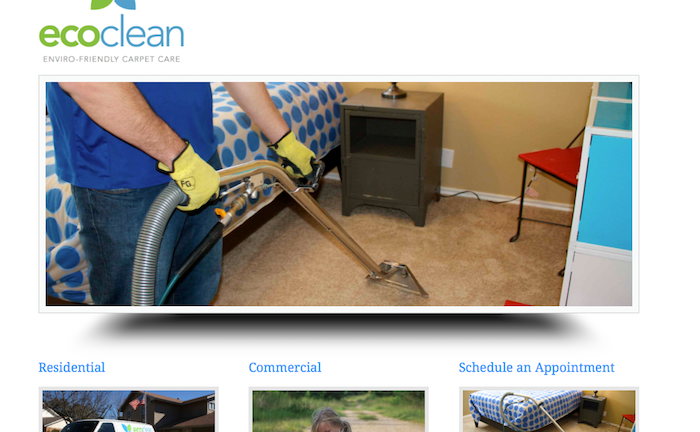
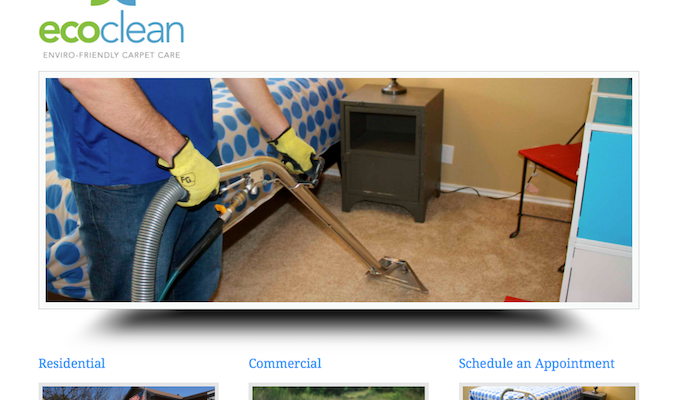
Continued to update project portfolio

diff --git a/public_html/css/style.css b/public_html/css/style.css
@@ -21,12 +21,6 @@ h1, h2, h3, h4, h5, h6 {
 	margin: 0 auto;
 }
 
-/*.row-eq-height {*/
-	/*display: -webkit-box;*/
-	/*display: -webkit-flex;*/
-	/*display: -ms-flexbox;*/
-	/*display: flex;*/
-/*}*/
 
 /* HEADER */
 .headerRow {
@@ -67,9 +61,7 @@ h1, h2, h3, h4, h5, h6 {
 }
 
 .project {
-	border: 5px solid black;
-	padding: 10px;
-	margin: 10px;
+
 }
 
 /* PRICING */

diff --git a/public_html/index.php b/public_html/index.php
@@ -59,6 +59,7 @@
 	<body>
 
 		<div class="container-fluid"><!--Header container-->
+
 			<div class="row headerRow row-eq-height"><!--Header-->
 				<div class="col-md-4">
 					<img src="images/dm-logo.png" alt="David Mancini's Logo" class="img-responsive">
@@ -72,7 +73,6 @@
 				</div>
 			</div><!--Ends Header-->
 		</div><!--Ends header container-->
-
 
 		<div class="container contentContainer"><!--Content container-->
 
@@ -94,41 +94,35 @@
 				<p>I create fully responsive, mobile-friendly websites using the latest and most up-to-date technology,<br> including HTML5, CSS3, AngularJS, Bootstrap, MySQL, PHP7, and Wordpress.</p>
 				</div><!--Ends Skills Row-->
 
-
-
-			<h2>Project Portfolio</h2><br><p>More projects available upon request.</p>
-
-			<div class="row projectsRow row-eq-height text-center"><!--Projects Row-->
-
-
-				<div class="col-md-4 project">
-					<a href="//satraining.net" target="_blank"><img src="images/project-stayin-alive.png" alt="Stayin' Alive Training Services Website" class="img-responsive img-rounded"></a><br>
-					<h3>Stayin' Alive Training Services</h3>
-					<p>Stayin' Alive's website utilizes a custom Wordpress theme.  It showcases their available courses and allows visitors to schedule and pay for classes online.  It also displays a blog and manages every aspect of daily business.
-					<br><a href="//satraining.net" target="_blank">satraining.net</a></p>
+			<div class="row projectsRow text-center"><!--Projects Row-->
+				<h2>Project Portfolio</h2><br><p>More projects available upon request.</p>
+				<div class="col-md-4">
+					<div class="project">
+						<a href="//satraining.net" target="_blank"><img src="images/project-stayin-alive.png" alt="Stayin' Alive Training Services Website" class="img-responsive img-rounded"></a><br>
+						<h3>Stayin' Alive Training Services</h3>
+						<p>Stayin' Alive's website utilizes a custom Wordpress theme.  It showcases their available courses and allows visitors to schedule and pay for classes online.  It also displays a blog and manages every aspect of daily business.
+						<br><a href="//satraining.net" target="_blank">satraining.net</a></p>
+					</div>
 				</div>
-
-
-					<div class="col-md-4 project">
+				<div class="col-md-4">
+					<div class="project">
 						<a href="//ecocleantexas.com" target="_blank"><img src="images/project-ecoclean.png" alt="EcoClean Carpet Care Website" class="img-responsive img-rounded"></a><br>
 						<h3>EcoClean Carpet Care</h3>
 						<p>For this project, I travelled with a service tech to take photos for the website.  I met with the owner to build a website that he uses to attract new clients and to manage their appointments.  This website uses a non-premium theme that can be upgraded should the owner choose to do so.
 						<br><a href="//ecocleantexas.com" target="_blank">ecocleantexas.com</a></p>
 					</div>
-
-
-					<div class="col-md-4 project">
+				</div>
+				<div class="col-md-4">
+					<div class="project">
 						<a href="#" target="_blank"><img src="images/placeholder.png" alt="Placeholder Image" class="img-responsive img-rounded"></a><br>
-						<h3>Project Name 3</h3><p>Project text about the project that is information.  This website it obviously the best.
-						<br><a href="#" target="_blank">example.com</a></p>
+						<h3>Project</h3>
+						<p>Lorem ipsum dolor sit amet, consectetur adipisicing elit. Assumenda consectetur cum ex facere id incidunt, ipsam nam quidem ratione, rem repellat voluptate? Aperiam dolore facilis in ipsum itaque laboriosam praesentium.
+							<br><a href="//ecocleantexas.com" target="_blank">ecocleantexas.com</a></p>
 					</div>
-
-
-
-
+				</div>
 			</div><!--Ends Projects Row-->
 
-			<div class="row pricingRow row-eq-height text-center"><!--Pricing Row-->
+			<div class="row pricingRow text-center"><!--Pricing Row-->
 				<div class="col-md-12">
 					<a name="pricing"></a><h2>Website Pricing</h2>
 					Custom pricing is available for custom web apps.  <a href="#quote">Get a quote below.</a>
@@ -212,7 +206,6 @@
 			<div class="row quoteRow row-eq-height"><!--Quote Row-->
 				<div class="col-md-8">
 					<a name="quote"></a><h2 class="text-center"><span class="textBackgroundBlack">Get a Custom Quote</span></h2>
-
 					<form>
 						<div class="form-group">
 							<label for="name" class="textBackgroundBlack">Name</label>
@@ -236,15 +229,11 @@
 						</div>
 						<button type="submit" class="btn btn-primary">Send</button><br><br>
 					</form>
-					
 				</div>
 				<div class="col-md-4" id="twitter">
 					<a class="twitter-timeline" data-dnt="true" href="https://twitter.com/Vizavord" data-widget-id="695297296930512896">Tweets by @Vizavord</a> <script>!function(d,s,id){var js,fjs=d.getElementsByTagName(s)[0],p=/^http:/.test(d.location)?'http':'https';if(!d.getElementById(id)){js=d.createElement(s);js.id=id;js.src=p+"://platform.twitter.com/widgets.js";fjs.parentNode.insertBefore(js,fjs);}}(document,"script","twitter-wjs");</script>
 				</div>
 			</div><!--Ends Quotes Row-->
-
-
-
 
 		</div><!--Ends content container-->
 
@@ -266,8 +255,6 @@
 				</div><!--Ends footer row-->
 			</div><!--Ends footer container-->
 		</footer>
-
-
 
 	</body>
 </html>
